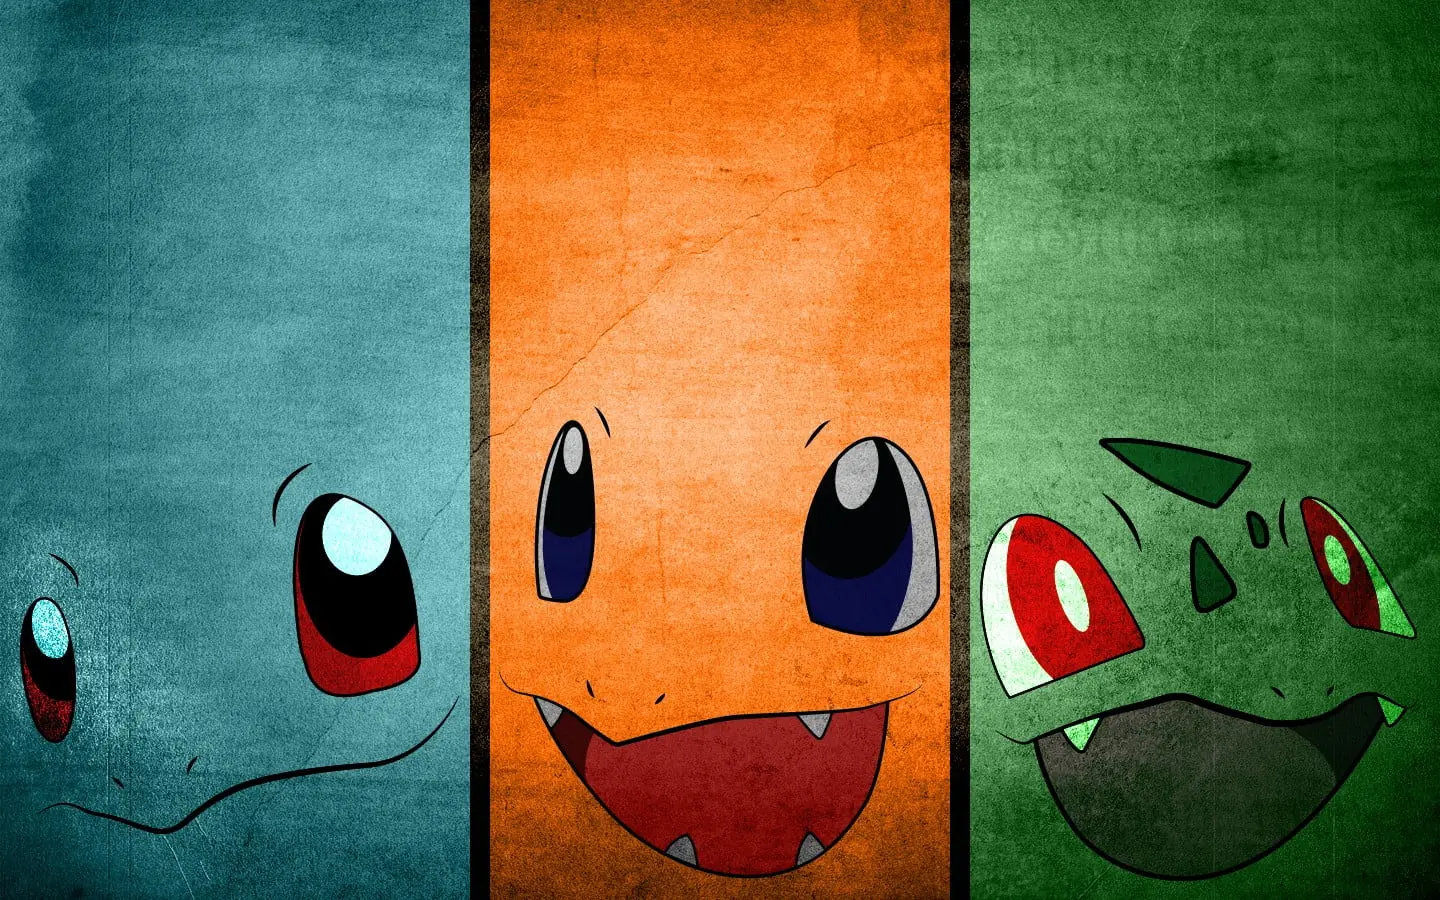
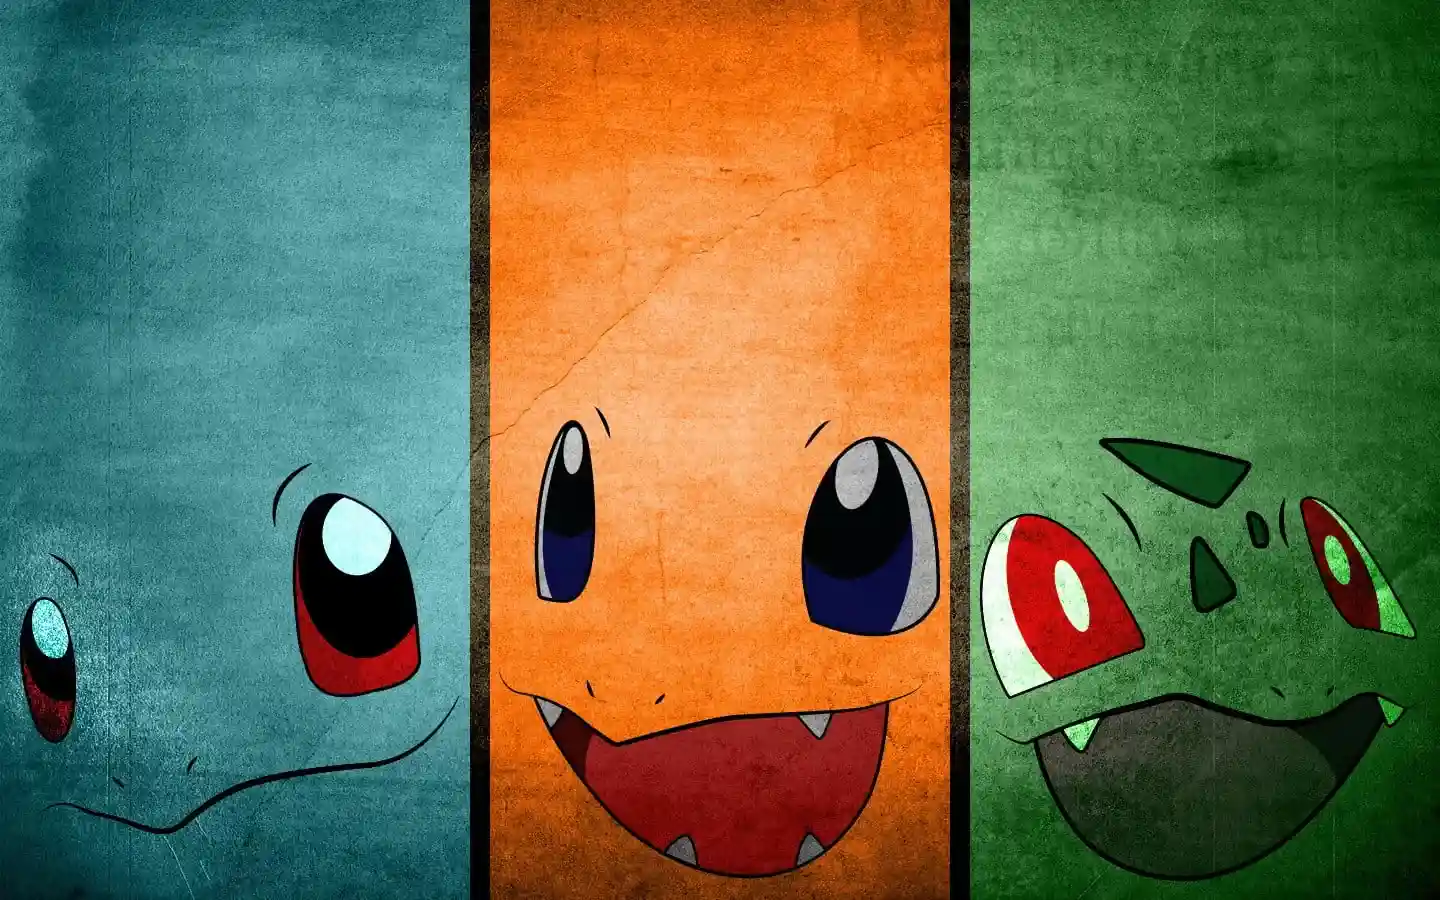
reduced image size

diff --git a/src/components/skills/mainSkills.tsx b/src/components/skills/mainSkills.tsx
@@ -1,15 +1,15 @@
-import html from "../../assets/skills/html.png";
-import js from "../../assets/skills/js.png";
-import css from "../../assets/skills/css.png";
-import react from "../../assets/skills/react.png";
-import git from "../../assets/skills/git.png";
-import sass from "../../assets/skills/sass.png";
-import typeScript from "../../assets/skills/typeScript.png";
+import html from "../../assets/skills/html.webp";
+import js from "../../assets/skills/js.webp";
+import css from "../../assets/skills/css.webp";
+import react from "../../assets/skills/react.webp";
+import git from "../../assets/skills/git.webp";
+import sass from "../../assets/skills/sass.webp";
+import typeScript from "../../assets/skills/typeScript.webp";
 import ReactN from "../../assets/skills/RN.svg";
-import php from "../../assets/skills/php.png";
-import laravel from "../../assets/skills/laravel.png";
-import bootstrap from "../../assets/skills/bootstrap.png";
-import mysql from "../../assets/skills/mysql.png";
+import php from "../../assets/skills/php.webp";
+import laravel from "../../assets/skills/laravel.webp";
+import bootstrap from "../../assets/skills/bootstrap.webp";
+import mysql from "../../assets/skills/mysql.webp";
 import { Fade } from "react-awesome-reveal";
 
 const MainSkills = () => {

diff --git a/src/components/home/home.tsx b/src/components/home/home.tsx
@@ -1,7 +1,7 @@
 import React, { useContext } from "react";
-import fondo1 from "../../assets/backgrounds/fondo.png";
-import fondo2 from "../../assets/backgrounds/fondo2.png";
-import image from "../../assets/projects-img/home-image.svg";
+import fondo1 from "../../assets/backgrounds/fondo.webp";
+import fondo2 from "../../assets/backgrounds/fondo2.webp";
+import image from "../../assets/projects-img/home-image.webp";
 import { ImArrowRight2 } from "react-icons/im";
 import { Fade } from "react-awesome-reveal";
 import { ThemeContext } from "../themeContext/themeContext";

diff --git a/src/components/projects/projects.tsx b/src/components/projects/projects.tsx
@@ -1,7 +1,7 @@
 import pokeimg from "../../assets/projects-img/poke.webp";
-import fondo from "../../assets/projects-img/ecommerce.jfif";
-import rickimg from "../../assets/projects-img/rick2.jpg";
-import portfolio_v1_img from "../../assets/projects-img/robot.png";
+import fondo from "../../assets/projects-img/ecommerce.webp";
+import rickimg from "../../assets/projects-img/rick2.webp";
+import portfolio_v1_img from "../../assets/projects-img/robot.webp";
 import { Fade } from "react-awesome-reveal";
 
 const Projects = () => {

diff --git a/src/components/certificates/certificates.tsx b/src/components/certificates/certificates.tsx
@@ -1,7 +1,7 @@
 import "slick-carousel/slick/slick.css";
 import "slick-carousel/slick/slick-theme.css";
-import globant from "../../assets/certificates/globant.png";
-import bootcamp from "../../assets/certificates/bootcamp.png";
+import globant from "../../assets/certificates/globant.webp";
+import bootcamp from "../../assets/certificates/bootcamp.webp";
 import Slider from "react-slick";
 
 const settings = {
